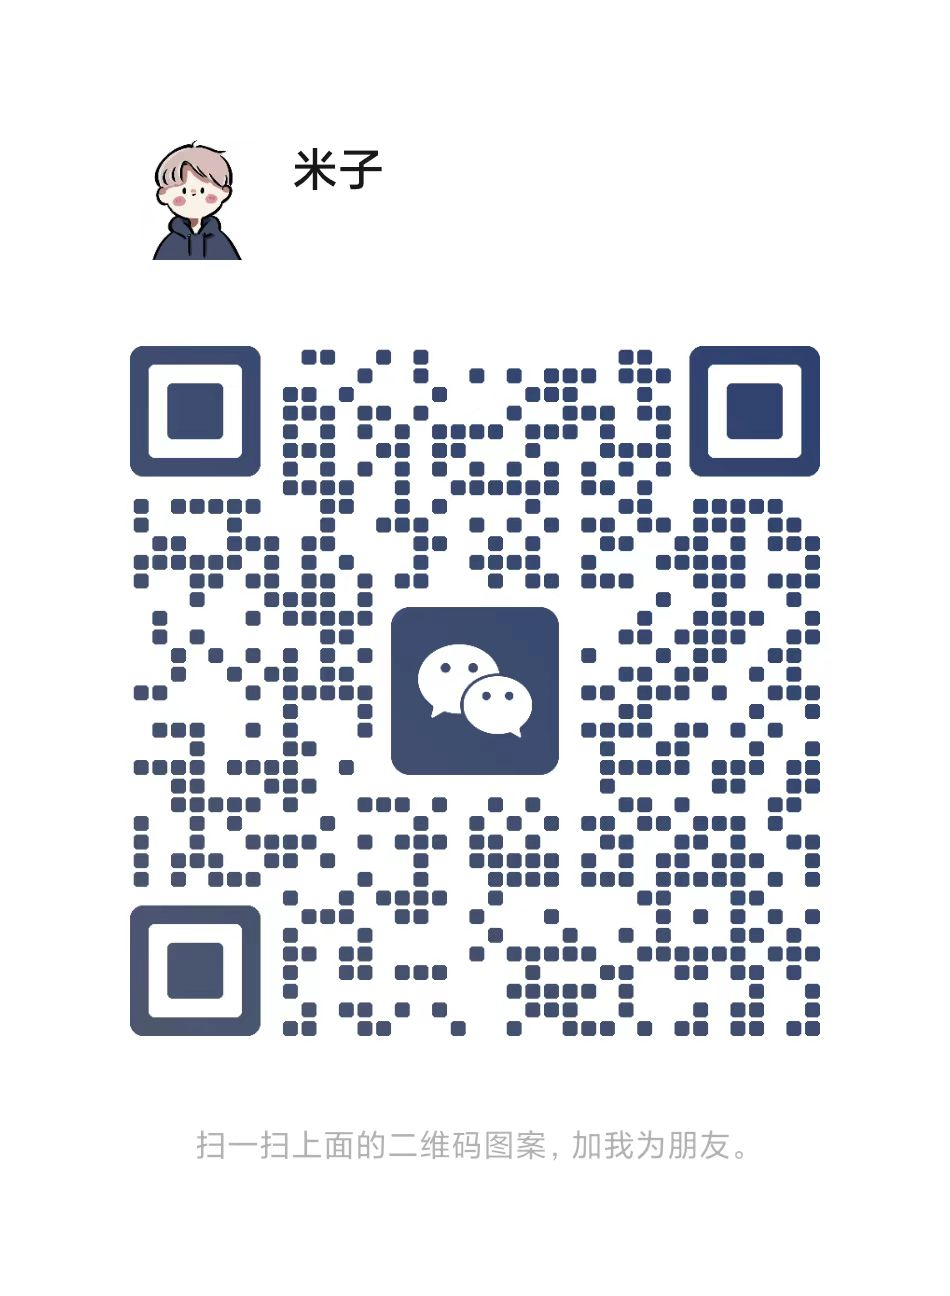
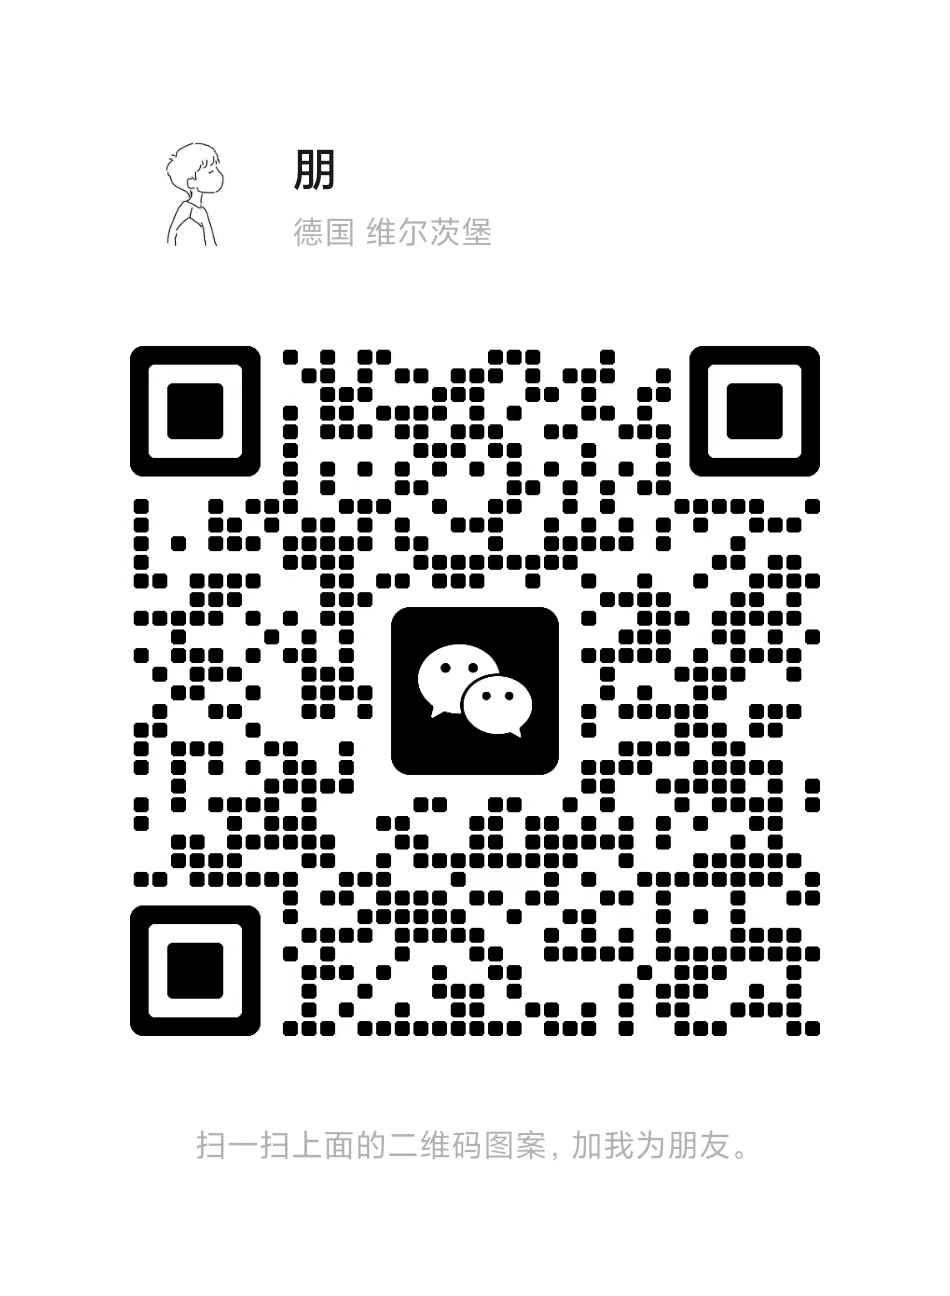
推送

Changed region(s): [[0.1221, 0.2469, 0.8853, 0.8025], [0.3053, 0.0926, 0.5189, 0.1852], [0.1526, 0.0926, 0.2442, 0.216]]

diff --git a/index.html b/index.html
@@ -67,20 +67,20 @@
             <!-- <p><strong>电话：</strong>xxx-xxxx-xxxx</p> -->
             <p><strong>邮箱：</strong>wsp@vip.qq.com</p>
             <p><strong>微信号：</strong>Sakura_Fiee</p>
-            <p><strong>QQ号：</strong>3977175360</p>
+            <p><strong>QQ号：</strong>2078148078</p>
         </div>
         <img src="wx.jpg" alt="微信二维码">
     </div>
 
     <div class="domain-list">
-        <div class="domain-item"></div>
-        <div class="domain-item">zi.hi.cn</div>
         <div class="domain-item">wuai.link</div>
         <div class="domain-item">sr.mba</div>
         <div class="domain-item">wsp.im</div>
         <div class="domain-item">wspbk.com</div>
-        <div class="domain-item"></div>
         <div class="domain-item">pppp.host</div>
+        <div class="domain-item"></div>
+        <div class="domain-item"></div>
+        <div class="domain-item"></div>
     </div>
 </div>
 
@@ -89,7 +89,7 @@
 </a>
 
 <footer>
-    <p>&copy; 2024 <a href="https://www.shimail.cn">WSP</a></p>
+    <p>&copy; 2024 <a href="https://www.UXN.CC">有信诺</a></p>
 </footer>
 
 </body>
